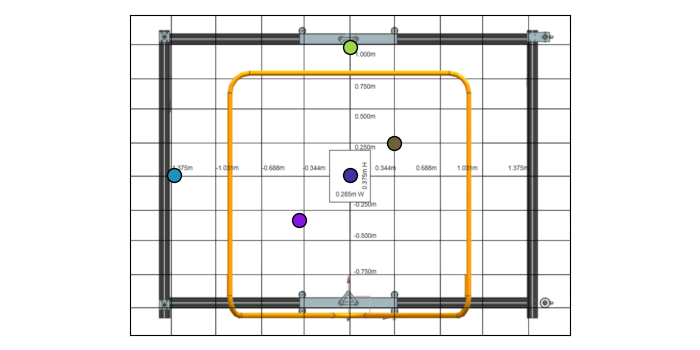
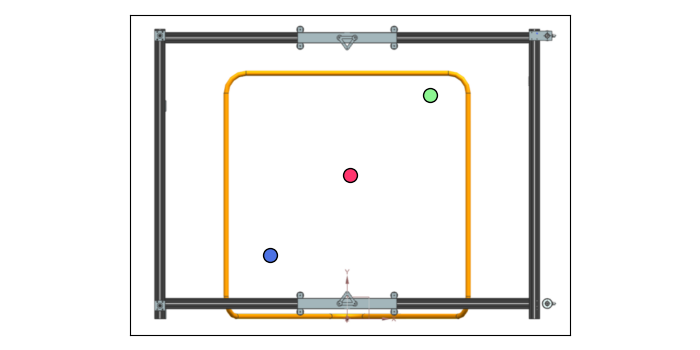
HTML/CSS for Homepage and Shot History

diff --git a/User_Interface/WebPages/style_shothistory.css b/User_Interface/WebPages/style_shothistory.css
@@ -1,0 +1,148 @@
+body {
+    background-color: white;
+    font-family: 'Raleway', sans-serif;
+    margin: 0;
+    padding: 0;
+  }
+  
+  #banner {
+    background-color:  #673B9E;
+    background-size: cover;
+    background-position: bottom center;
+    height: 150px;
+    width: 100%;
+  }
+  
+  #banner .content h1 {
+    position: absolute;
+    top: 50px;
+    width: fit-content;
+    margin: 0 auto;
+    text-align: left;
+    padding-left: 100px;
+  }
+
+  #banner .content img {
+    position: absolute;
+    height: 100px;
+    padding: 20px;
+  }
+  
+  .buttons {
+    padding: 0px 0px;
+    margin: 0 auto;
+    position: relative;
+    text-align: center;
+    width: 100%;
+  }
+  
+  .buttons #stop {
+    background-color: #FF4242;
+  }
+
+  .buttons #stop:hover {
+    background: #ce3636;
+  }
+
+  .buttons a {
+    background: rgb(208, 203, 211);
+    border-radius: 10px;
+    color: black;
+    display: block;
+    margin: 20px auto;
+    padding: 14px;
+    text-decoration: none;
+    font-weight: bold;
+    font-size: 20px
+  }
+  
+  .buttons a:hover {
+    background: rgb(133, 133, 133);
+    color: black;
+  }
+
+  #main {
+    margin: 0 auto;
+    padding: 0px 0px;
+    text-align: center;
+    width: 100%;
+    height: 610px;
+    overflow: scroll;
+  }
+  
+  .goal_plot img {
+    height: 385px;
+    padding: 0 auto;
+    margin: 0 auto;
+  }
+
+  .field_plot img {
+    height: 1000px;
+    padding: 0 auto;
+    margin: 0 auto;
+  }
+
+  h1 {
+    color: white;
+    font-size: 42px;
+    font-weight: 600;
+    text-align: center;
+  }
+  
+  h2 {
+    border: 1px dotted red;
+    color: red;
+    font-size: 14px;
+    line-height: 48px;
+    padding: 20px 30px;
+    margin: 30px 20px;
+    text-align: center;
+  }
+  
+  h3 {
+    color: red;
+    font-size: 26px;
+    font-weight: 700;
+    padding: 20px 10px;
+  }
+  
+  p {
+    color: grey;
+    font-size: 16px;
+    line-height: 48px;
+    margin-top: 60px;
+    padding: 10px 20px;
+  }
+  
+  
+  .navigation {
+    background-color: black;
+    /* border: 1px solid LightGrey; */
+    padding: 20px 0px;
+    position: fixed;
+    bottom: 0;
+    text-align: center;
+    width: 100%;
+    font-weight: bold;
+    /* height: 100px; */
+  }
+  
+  .navigation a {
+    /* background: #673B9E; */
+    /* border: 1px solid  #673B9E; */
+    border-radius: 3px;
+    color: white;
+    display: inline-block;
+    margin: 10px;
+    padding: 14px;
+    text-decoration: none;
+  }
+  
+  .navigation img {
+    height: 80px;
+  }
+  .navigation a:hover {
+    /* background: white; */
+    /* border: 1px solid white; */
+    color:  #673B9E;
+  }

diff --git a/User_Interface/WebPages/style_homepage.css b/User_Interface/WebPages/style_homepage.css
@@ -1,0 +1,136 @@
+body {
+    background-color: white;
+    font-family: 'Raleway', sans-serif;
+    margin: 0;
+    padding: 0;
+  }
+  
+  #banner {
+    background-color:  #673B9E;
+    background-size: cover;
+    background-position: bottom center;
+    height: 150px;
+    width: 300 px%;
+  }
+  
+  #banner .content h1 {
+    position: absolute;
+    top: 50px;
+    width: 400px;
+    margin: 0 auto;
+    text-align: left;
+    padding-left: 100px;
+  }
+
+  #banner .content img {
+    position: absolute;
+    height: 100px;
+    padding: 20px;
+  }
+  
+  .buttons {
+    padding: 0px 0px;
+    margin: 0 auto;
+    position: relative;
+    text-align: center;
+    width: 100%;
+  }
+  
+  .buttons #stop {
+    background-color: #FF4242;
+  }
+
+  .buttons #stop:hover {
+    background: #ce3636;
+  }
+
+  .buttons a {
+    background: rgb(208, 203, 211);
+    border-radius: 10px;
+    color: black;
+    display: block;
+    margin: 20px auto;
+    padding: 14px;
+    text-decoration: none;
+    font-weight: bold;
+    font-size: 20px
+  }
+  
+  .buttons a:hover {
+    background: rgb(133, 133, 133);
+    color: black;
+  }
+
+  #main {
+    margin: 0 auto;
+    padding: 20px;
+    text-align: center;
+    width: 400px;
+    height: 610px;
+    overflow: scroll;
+  }
+  
+  h1 {
+    color: white;
+    font-size: 42px;
+    font-weight: 600;
+    text-align: center;
+  }
+  
+  h2 {
+    border: 1px dotted red;
+    color: red;
+    font-size: 14px;
+    line-height: 48px;
+    padding: 20px 30px;
+    margin: 30px 20px;
+    text-align: center;
+  }
+  
+  h3 {
+    color: red;
+    font-size: 26px;
+    font-weight: 700;
+    padding: 20px 10px;
+  }
+  
+  p {
+    color: grey;
+    font-size: 16px;
+    line-height: 48px;
+    margin-top: 60px;
+    padding: 10px 20px;
+  }
+  
+  
+  .navigation {
+    background-color: black;
+    /* border: 1px solid LightGrey; */
+    padding: 20px 0px;
+    position: fixed;
+    bottom: 0;
+    text-align: center;
+    width: 100%;
+    font-weight: bold;
+    /* height: 100px; */
+  }
+  
+  .navigation a {
+    /* background: #673B9E; */
+    /* border: 1px solid  #673B9E; */
+    border-radius: 3px;
+    color: white;
+    display: inline-block;
+    margin: 10px;
+    padding: 14px;
+    text-decoration: none;
+  }
+  
+  .navigation img {
+    height: 80px;
+  }
+  .navigation a:hover {
+    /* background: white; */
+    /* border: 1px solid white; */
+    color:  #673B9E;
+  }

diff --git a/User_Interface/WebPages/ShotHistory.html b/User_Interface/WebPages/ShotHistory.html
@@ -3,7 +3,7 @@
 <head>
   <title>NURC Lacrosse Homepage</title>
   <link href="https://fonts.googleapis.com/css?family=Amatic+SC|Raleway:100,200,600,700" rel="stylesheet">
-  <link rel="stylesheet" href="style_homepage.css">
+  <link rel="stylesheet" href="style_shothistory.css">
 </head>
 <body>
 
@@ -26,11 +26,17 @@
   </div>
 
   <div id="main" class="content">
-    <div class="buttons">
-      <a href="#">Turn Robot On</a>
-      <a href="#">Homing Sequence</a>
-      <a id='stop' href="#">Emergency Stop</a>
+    <div class="goal_plot">
+      <img src="/Media/lax_net_fullgrid.png" alt="lacrosse goal">
     </div>
+
+    <div class="field_plot">
+      <img src="/Media/lax_field.png" alt="lacrosse field">
+    </div>
+  </div>
+
+  <div id="shot_info">
+
   </div>
 
   <div class="navigation">

diff --git a/User_Interface/WebPages/BrythonLaxHomepage.html b/User_Interface/WebPages/BrythonLaxHomepage.html
@@ -50,7 +50,7 @@
             <h1 style="color:white;"> NURC Lacrosse Homepage</h1>
         </div>
 
-        <img src="goal_plot.png" alt="goal with plotted markers">
+        <img src="/Users/emilygordon/NURC/goal_plot.png" alt="goal with plotted markers">
 
     <script type="text/python">
     from browser import document, html

diff --git a/User_Interface/Scripts/goal_display2.py b/User_Interface/Scripts/goal_display2.py
@@ -4,7 +4,7 @@ import random
 
 plt.rcParams["figure.figsize"] = [7.00, 3.50]   # default size from copied code, manipulate for iphone14 later
 plt.rcParams["figure.autolayout"] = True
-im = plt.imread("/Users/emilygordon/NURC/media/lax_net_fullgrid.png") # this path likely needs to change for host computer
+im = plt.imread("/Users/emilygordon/NURC/nurc-lax-robot-2023/User_Interface/media/lax_net_fullgrid.png") # this path likely needs to change for host computer
 fig, ax = plt.subplots()
 ax.xaxis.set_tick_params(labelbottom=False)
 ax.yaxis.set_tick_params(labelleft=False)
@@ -30,4 +30,4 @@ def goal_display(xpoints, ypoints):     # should the function accept arrays or t
     plt.show()
 
 goal_display([0, 0, -1.375, 0.344, -0.4], [0, 1, 0, 0.25, -0.35])
-fig.savefig('/Users/emilygordon/NURC/WebPages/goal_plot.png')
+fig.savefig('/Users/emilygordon/NURC/nurc-lax-robot-2023/User_Interface/WebPages/goal_plot.png')

diff --git a/User_Interface/Scripts/goal_display.py b/User_Interface/Scripts/goal_display.py
@@ -4,7 +4,7 @@ import random
 
 plt.rcParams["figure.figsize"] = [7.00, 3.50]   # default size from copied code, manipulate for iphone14 later
 plt.rcParams["figure.autolayout"] = True
-im = plt.imread("/Users/emilygordon/NURC/media/cropped_lax_net.png") # this path likely needs to change for host computer
+im = plt.imread("/Users/emilygordon/NURC/nurc-lax-robot-2023/User_Interface/media/lax_net_nogrid.png") # this path likely needs to change for host computer
 fig, ax = plt.subplots()
 ax.xaxis.set_tick_params(labelbottom=False)
 ax.yaxis.set_tick_params(labelleft=False)
@@ -30,4 +30,4 @@ def goal_display(xpoints, ypoints):     # should the function accept arrays or t
     plt.show()
 
 goal_display([0, 0.5, -0.5], [0, 0.5, -0.5])
-fig.savefig('/Users/emilygordon/NURC/WebPages/goal_plot.png')
+fig.savefig('/Users/emilygordon/NURC/nurc-lax-robot-2023/User_Interface/WebPages/goal_plot.png')

diff --git a/User_Interface/Scripts/field_display.py b/User_Interface/Scripts/field_display.py
@@ -4,7 +4,7 @@ import random
 
 plt.rcParams["figure.figsize"] = [3.50, 7.0]   # default size from copied code, manipulate for iphone14 later
 plt.rcParams["figure.autolayout"] = True
-im = plt.imread("/Users/emilygordon/NURC/media/lax_field.png") # this path likely needs to change for host computer
+im = plt.imread("/Users/emilygordon/NURC/nurc-lax-robot-2023/User_Interface/media/lax_field.png") # this path likely needs to change for host computer
 fig, ax = plt.subplots()
 ax.xaxis.set_tick_params(labelbottom=False)
 ax.yaxis.set_tick_params(labelleft=False)
